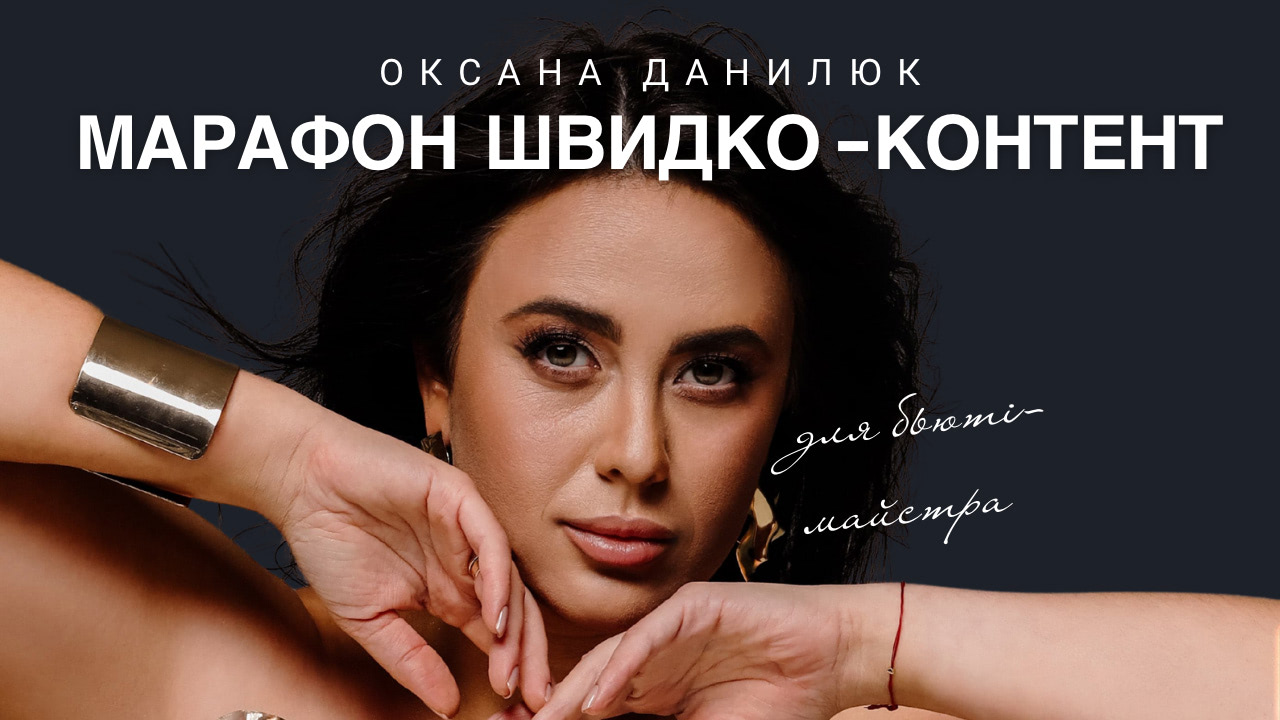
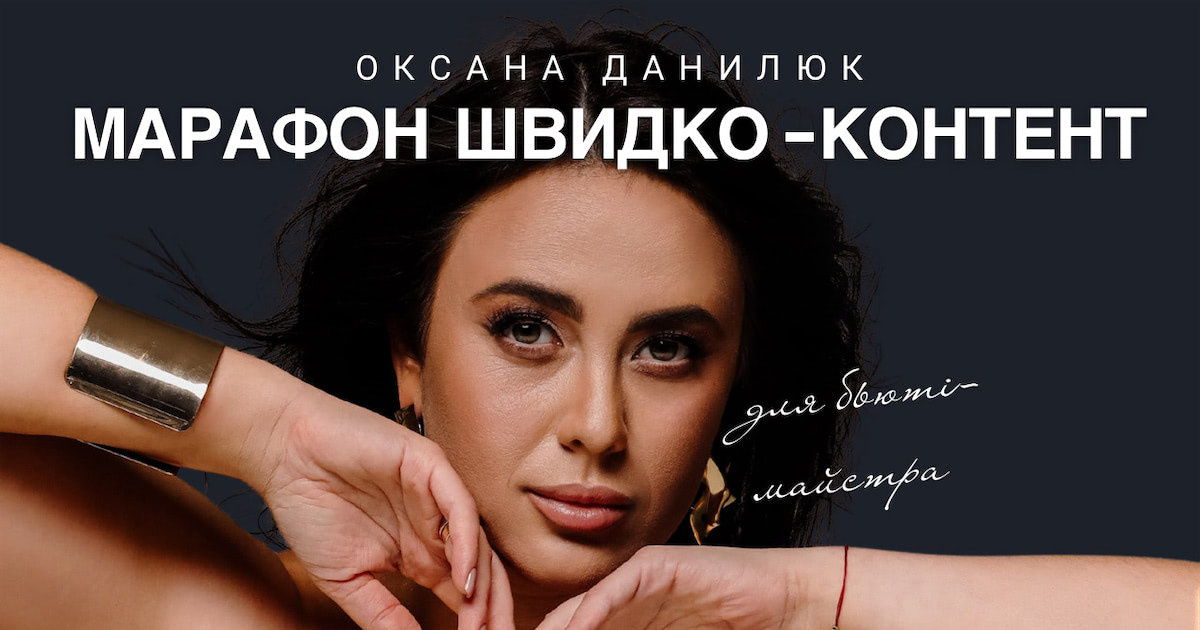
og-image.jpg

diff --git a/index.html b/index.html
@@ -10,7 +10,7 @@
     <meta property="og:title" content="Od.permanent | Оксана Данилюк" />
     <meta property="og:description" content="ЯК ШВИДКО СТВОРЮВАТИ ТА ОБРОБЛЯТИ КОНТЕНТ БЬЮТІ‑МАЙСТРУ - ОНЛАЙН КУРС 2025" />
     <meta property="og:type" content="website" />
-    <meta property="og:image" content="https://od-pm.pp.ua/og-image.webp" />
+    <meta property="og:image" content="https://od-pm.pp.ua/og-image.jpg" />
   </head>
 
   <body>
